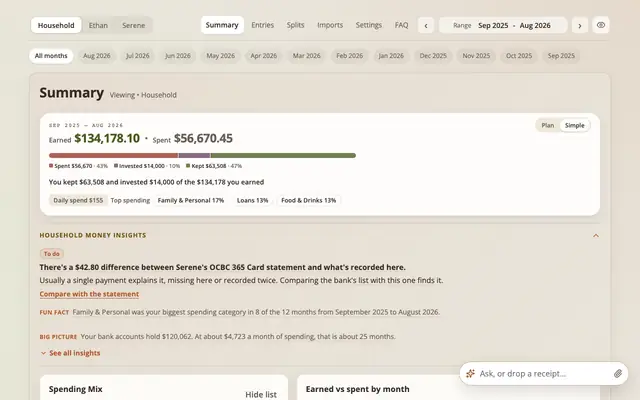
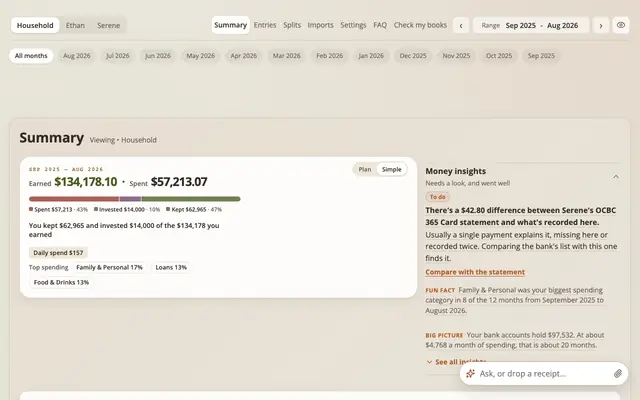
Docs: Summary first card row; guide shots of Earned vs spent regenerated

diff --git a/design.md b/design.md
@@ -2125,6 +2125,9 @@ words in `copy/summary-changed-copy.js`).
   (`data-fig="spent"` with exact ids and its own month). A tap on the row
   (or its name) opens "Shops behind it": each shop, "up $90" and its "so far"
   figure. On a phone the first 3 rows show, then "Show all N ›".
+- Beside another card (owner request, 2026-11-18; "Summary first card
+  row"): as many whole rows as fit the content height of the card(s) on its
+  grid row, at least 3, and "Show all N ›" only while some are left out.
 - Quiet: one line, "Nothing has moved much so far this month."
 - Hidden money: names only, A to Z, no amounts, no up or down, no mark.
 - Colours: tokens only; money is not toned (it lists what moved).
@@ -2334,6 +2337,23 @@ change.
   and Miles and cashback always use their short (phone) form with their own
   Show all (`useCompactSummaryCard`), because on the grid they are a third of
   the page.
+- **Summary first card row** (owner request, 2026-11-18: the row was too
+  tall to reach the cards below). Earned vs spent's month list
+  (`summary-earned-spent.js`) starts with the newest 3 months; the rest stay
+  in the page with `hidden` (the chart's month marks still find them) and
+  "Show all N ›" (What changed's words and link look, a button with
+  `aria-expanded`) opens them, focus moving to the first month that appeared;
+  "Show fewer" (the accounts card's words) folds them. Folded on every visit;
+  no control at 3 months or fewer. What changed (`useRowFit` in
+  `summary-changed-section.jsx`), when a ResizeObserver finds another card on
+  its grid row, shows as many whole rows as fit that card's content height
+  (at least 3) and sets its own height to it (`height: auto`, `min-height`),
+  so the bottoms line up; the rows left out are drawn unseen out of the flow
+  (`.chg-spare`, `inert`) only to be measured. While anything on the row is
+  open (`aria-expanded="true"`) it keeps its count and height, so the month
+  list opening never stretches it. Alone on its row (phone, stacked tablet,
+  Month wrap-up) it keeps the first 3. Both parts are in lazy chunks: the
+  first screen only hands `useState` to the month list.
 - **Impact at a glance.** The lead's spent figure is about 56px on a wide
   page (2.6rem on a phone) and "$x over plan" or "$x under plan" is a chip in
   its money tone's own fill and ink (`.summary-lead-slot`, so Month's lead is

diff --git a/docs/user-guide.md b/docs/user-guide.md
@@ -500,6 +500,10 @@ over plan.
   **Earned vs spent** takes the place of Plan vs actual: one row
   per month, newest first, with what you kept (or overspent), what you
   earned and spent, and a thin bar; the month's name opens that month.
+  It starts with the newest 3 months; **Show all** (with the number of
+  months) under them opens the rest, and **Show fewer** folds them again.
+  On a computer, **What changed** beside it shows as many of its rows as
+  fit next to it, with its own **Show all** when some are left out.
   When Summary covers two or more months, a chart sits above those rows (see
   **The chart above the months** below).
   Money insights leave out the ones about your plan. Until you choose,
